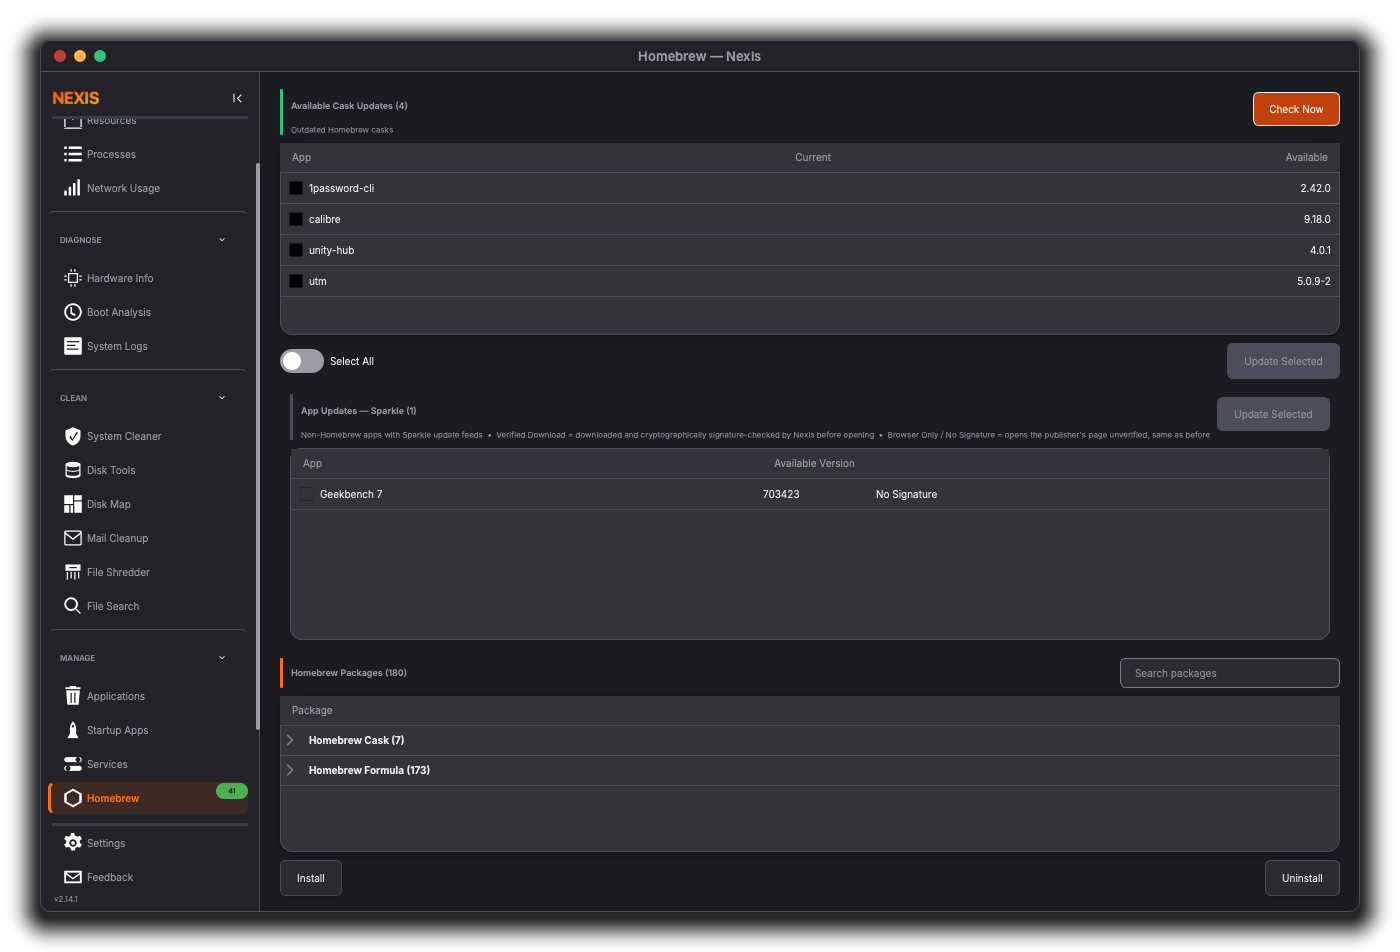
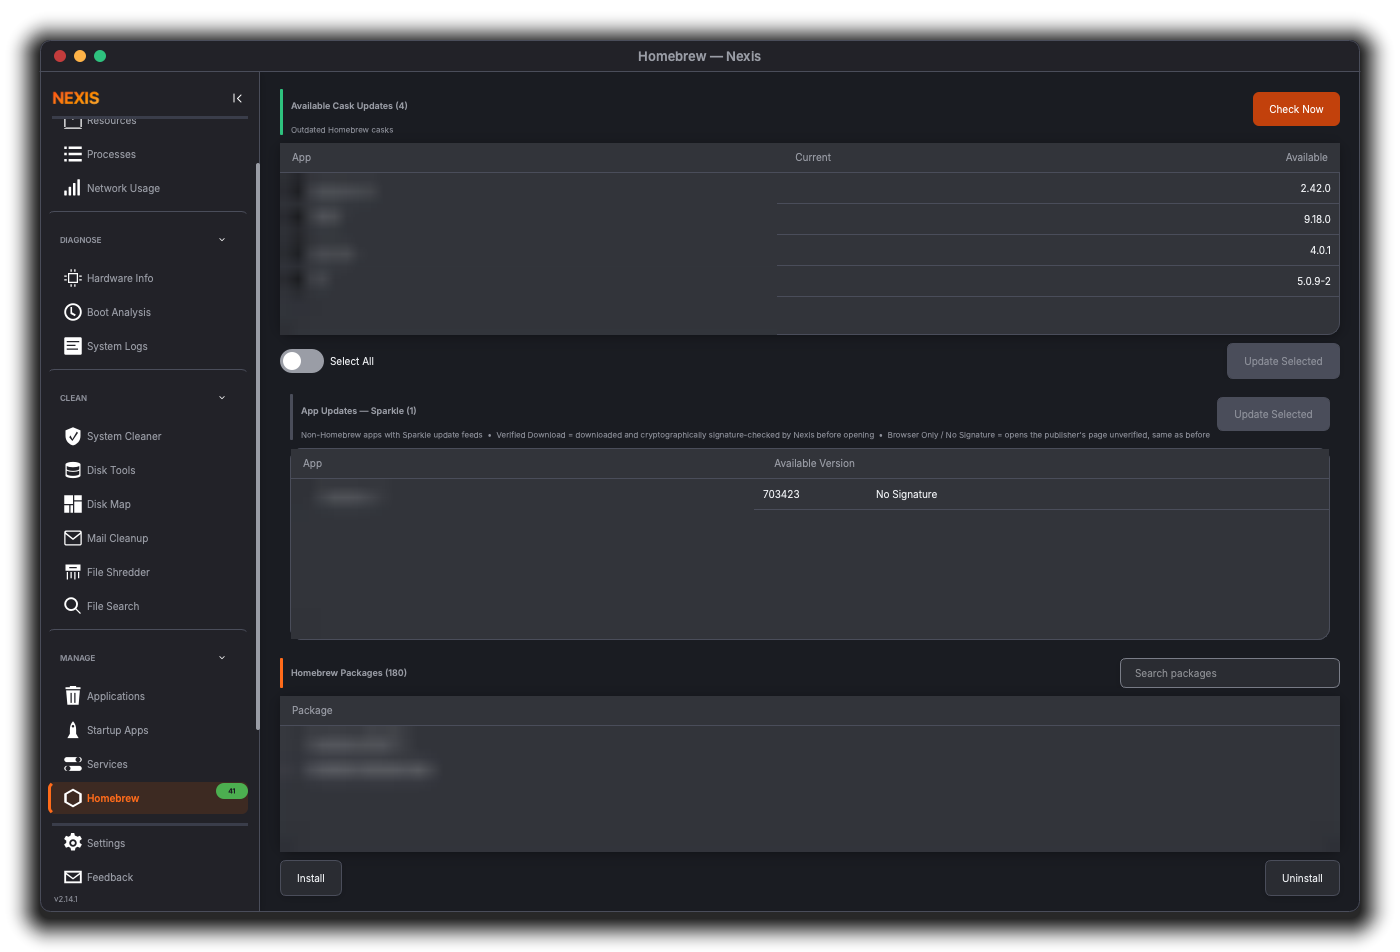
feat(docs): blur package and repository names; fix Docker blur columns
Docker shots listed Container/Volume/Mount Point, which live on hidden
tabs, so the Linux run reported "no visible column" for them (the Image
column was still blurred). Only the Image column is shown; list just it.

Extend redaction to installed software: Uninstaller (Application) on
both platforms, APT repository names (lblAptSourceName) and updates
(Package) on Linux, Homebrew (App, Package) on macOS. Per-platform test
rules enforce every page's redaction.

Recaptured guide/uninstaller.png, screenshots/uninstaller.png and
guide/homebrew.png on macOS.

Changed region(s): [[0.1843, 0.1828, 0.2457, 0.3046], [0.215, 0.7616, 0.3071, 0.8225], [0.215, 0.5179, 0.2764, 0.5483]]

diff --git a/tests/utils/test_doc_capture_manifest.cpp b/tests/utils/test_doc_capture_manifest.cpp
@@ -120,22 +120,39 @@ private slots:
     // Tables that list machine-specific names (process commands and users,
     // boot units, Docker images, hosts entries) must be redacted in every
     // shot of those pages.
+    // Tables that list machine-specific names (process commands and users,
+    // boot units, Docker images, hosts entries, installed packages and
+    // repositories) must be redacted in every shot of those pages.
     void bundledManifestBlursNameColumns()
     {
-        const QHash<QString, QStringList> required = {
-            {"processes",    {"User", "Process"}},   // + "Name" on Linux (column is Linux-only)
-            {"bootAnalysis", {"Service"}},
-            {"docker",       {"Image", "Container", "Volume", "Mount Point"}},
-            {"helpers",      {"Full Qualified", "Aliases"}},
+        struct Rule { QStringList columns; QStringList widgets; };
+        const QHash<QString, QHash<QString, Rule>> required = {
+            {"macos", {
+                {"processes",        {{"User", "Process"}, {}}},
+                {"helpers",          {{"Full Qualified", "Aliases"}, {}}},
+                {"uninstaller",      {{"Application"}, {}}},
+                {"aptSourceManager", {{"App", "Package"}, {}}},          // Homebrew
+            }},
+            {"linux", {
+                {"processes",        {{"Name", "User", "Process"}, {}}},
+                {"bootAnalysis",     {{"Service"}, {}}},
+                {"docker",           {{"Image"}, {}}},
+                {"helpers",          {{"Full Qualified", "Aliases"}, {}}},
+                {"uninstaller",      {{"Application"}, {}}},
+                {"aptSourceManager", {{"Package"}, {"lblAptSourceName"}}},
+            }},
         };
         const QByteArray json = bundledManifest();
-        for (const char *platform : {"macos", "linux"}) {
+        for (auto plat = required.cbegin(); plat != required.cend(); ++plat) {
             QString error;
-            for (const DocCaptureShot &s : DocCaptureManifest::parse(json, QString::fromLatin1(platform), &error)) {
-                if (!required.contains(s.page))
+            for (const DocCaptureShot &s : DocCaptureManifest::parse(json, plat.key(), &error)) {
+                if (!plat.value().contains(s.page))
                     continue;
-                for (const QString &col : required.value(s.page))
-                    QVERIFY2(s.blurColumns.contains(col), qPrintable(s.file + " missing " + col));
+                const Rule rule = plat.value().value(s.page);
+                for (const QString &col : rule.columns)
+                    QVERIFY2(s.blurColumns.contains(col), qPrintable(plat.key() + " " + s.file + " missing column " + col));
+                for (const QString &w : rule.widgets)
+                    QVERIFY2(s.blur.contains(w), qPrintable(plat.key() + " " + s.file + " missing widget " + w));
             }
         }
     }

diff --git a/docs/SCREENSHOTS.md b/docs/SCREENSHOTS.md
@@ -52,10 +52,11 @@ Captures come out at the display's pixel density: on a Retina or 200%-scaled dis
 - **Hostname.** The Dashboard system bar and Hardware Info show the machine's hostname. Use a machine
   or session whose hostname you're happy to publish.
 - **Live data.** Machine-specific names are blurred automatically on both platforms: every name and
-  path on Services and Startup Apps (`blur`), and the name columns of Processes (Name, User, Process),
-  Boot Analysis (Service), Docker (Image, Container, Volume, Mount Point) and Helpers → Hosts (Full
-  Qualified, Aliases) (`blurColumns`). The Uninstaller, APT repositories and System Logs are not
-  blurred; review those shots before committing them. Disk Map scans `/Applications` on macOS and `/usr` on Linux, never your home
+  path on Services and Startup Apps, and APT repository names (`blur`); and the name columns of
+  Processes (Name, User, Process), Boot Analysis (Service), Docker (Image), Helpers → Hosts (Full
+  Qualified, Aliases), the Uninstaller (Application), APT updates (Package) and Homebrew (App,
+  Package) (`blurColumns`). List only columns the shot actually shows — a column on a hidden tab
+  counts as missing and fails the shot. System Logs is not blurred; review it before committing. Disk Map scans `/Applications` on macOS and `/usr` on Linux, never your home
   folder.
 - **Linux specifics.** Run on Ubuntu 26.04 with GNOME (the reference platform). Docker must be running
   with at least one container for `docker.png` and `Nexis-12.png`. `Nexis-04.png` needs an NVIDIA or AMD
